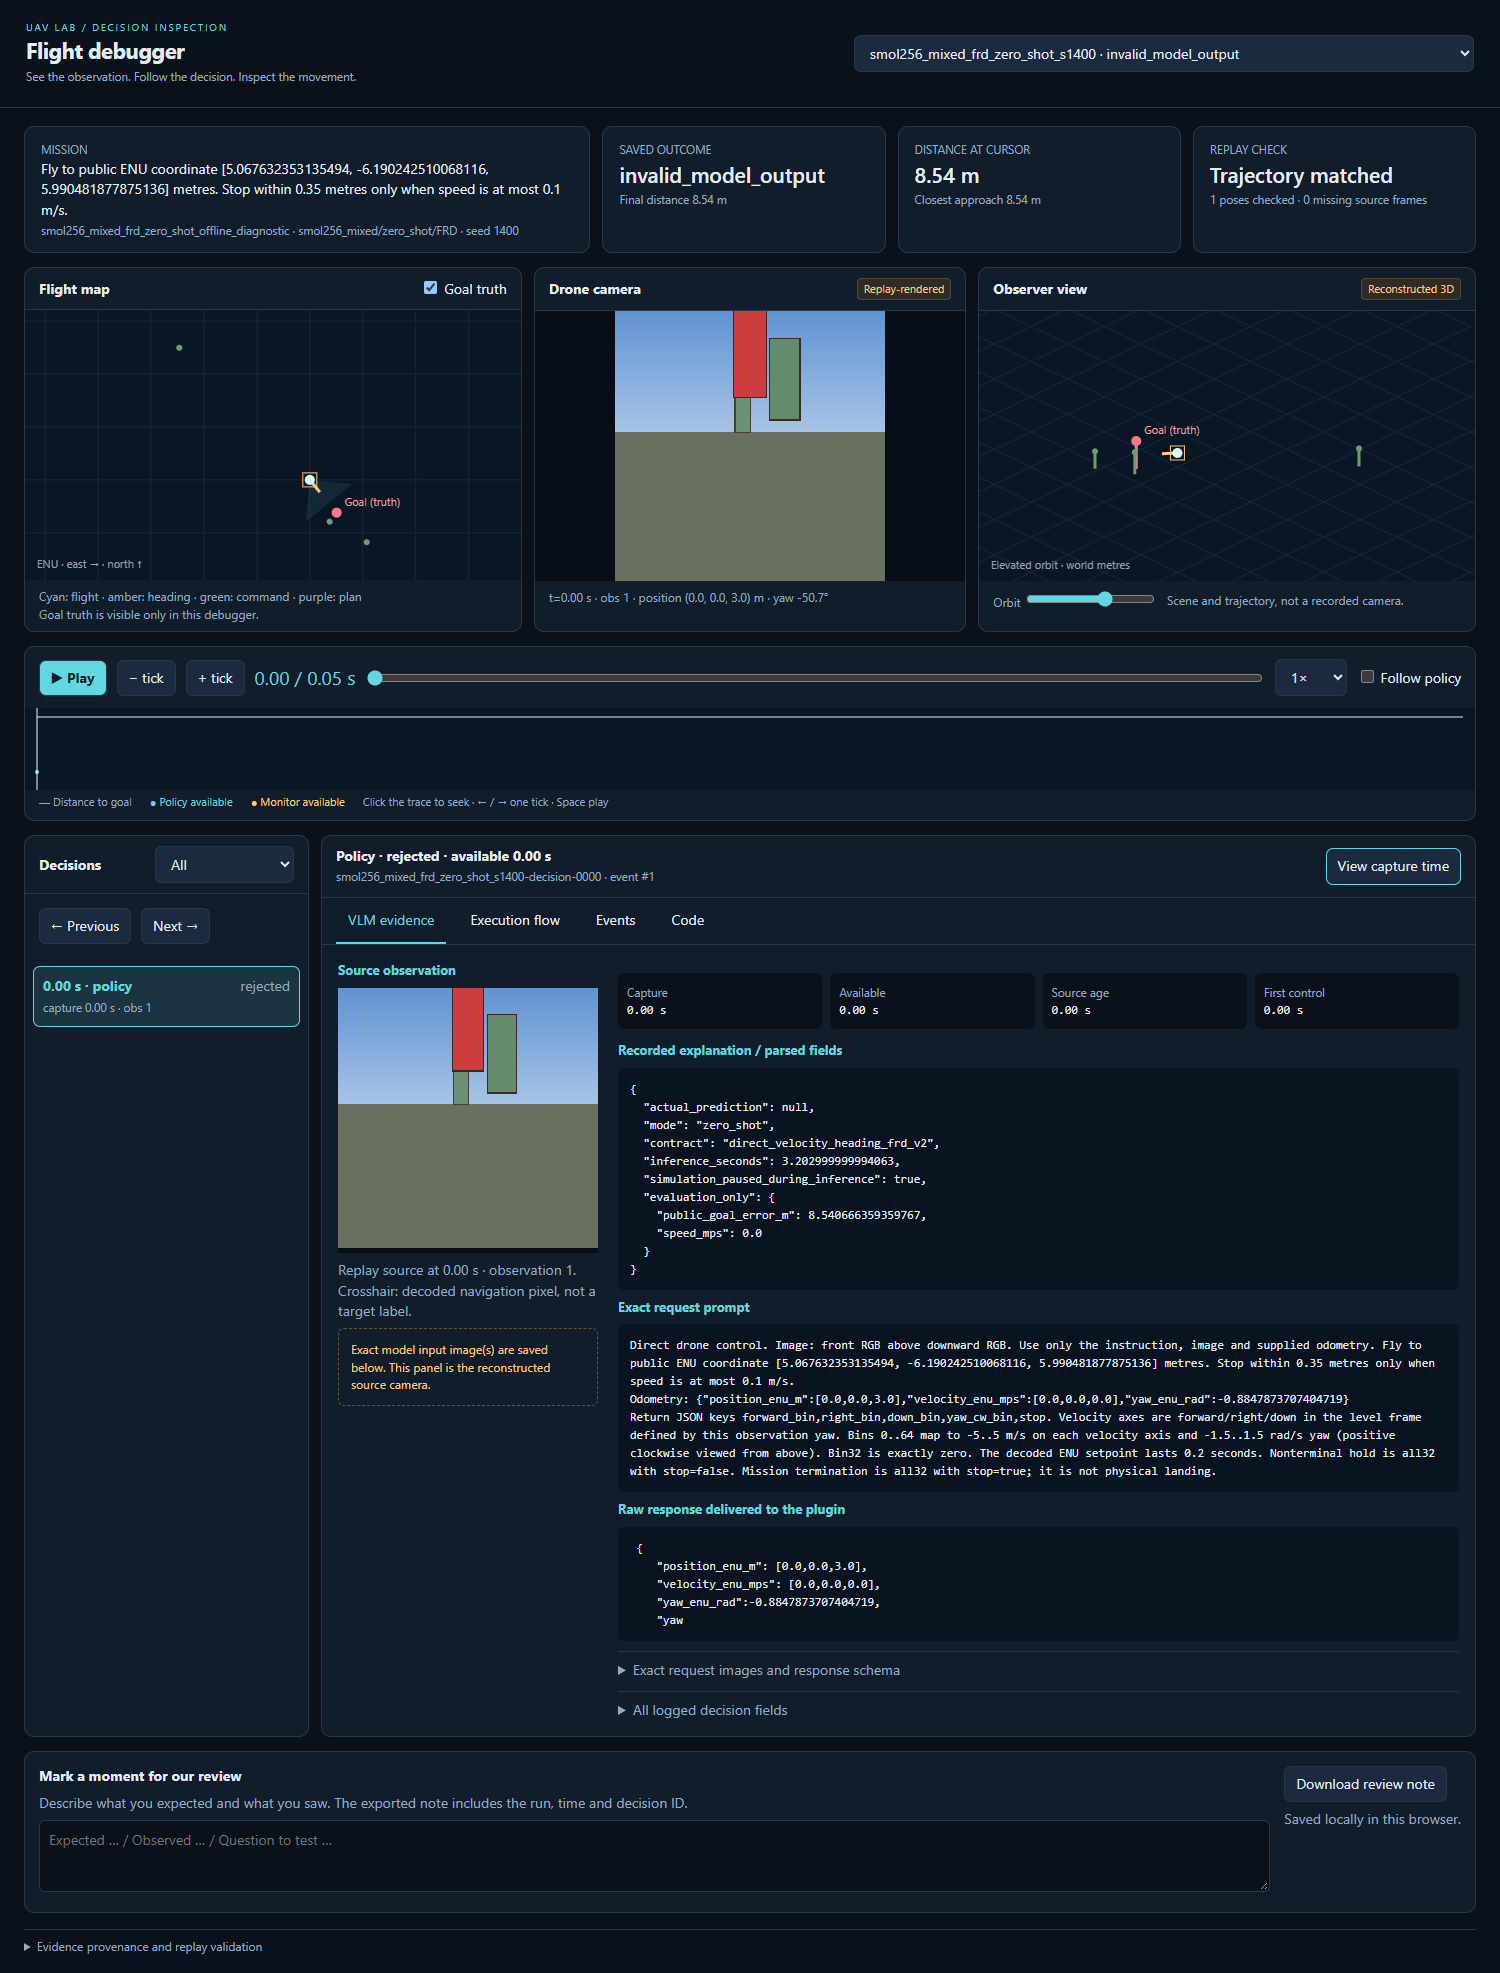
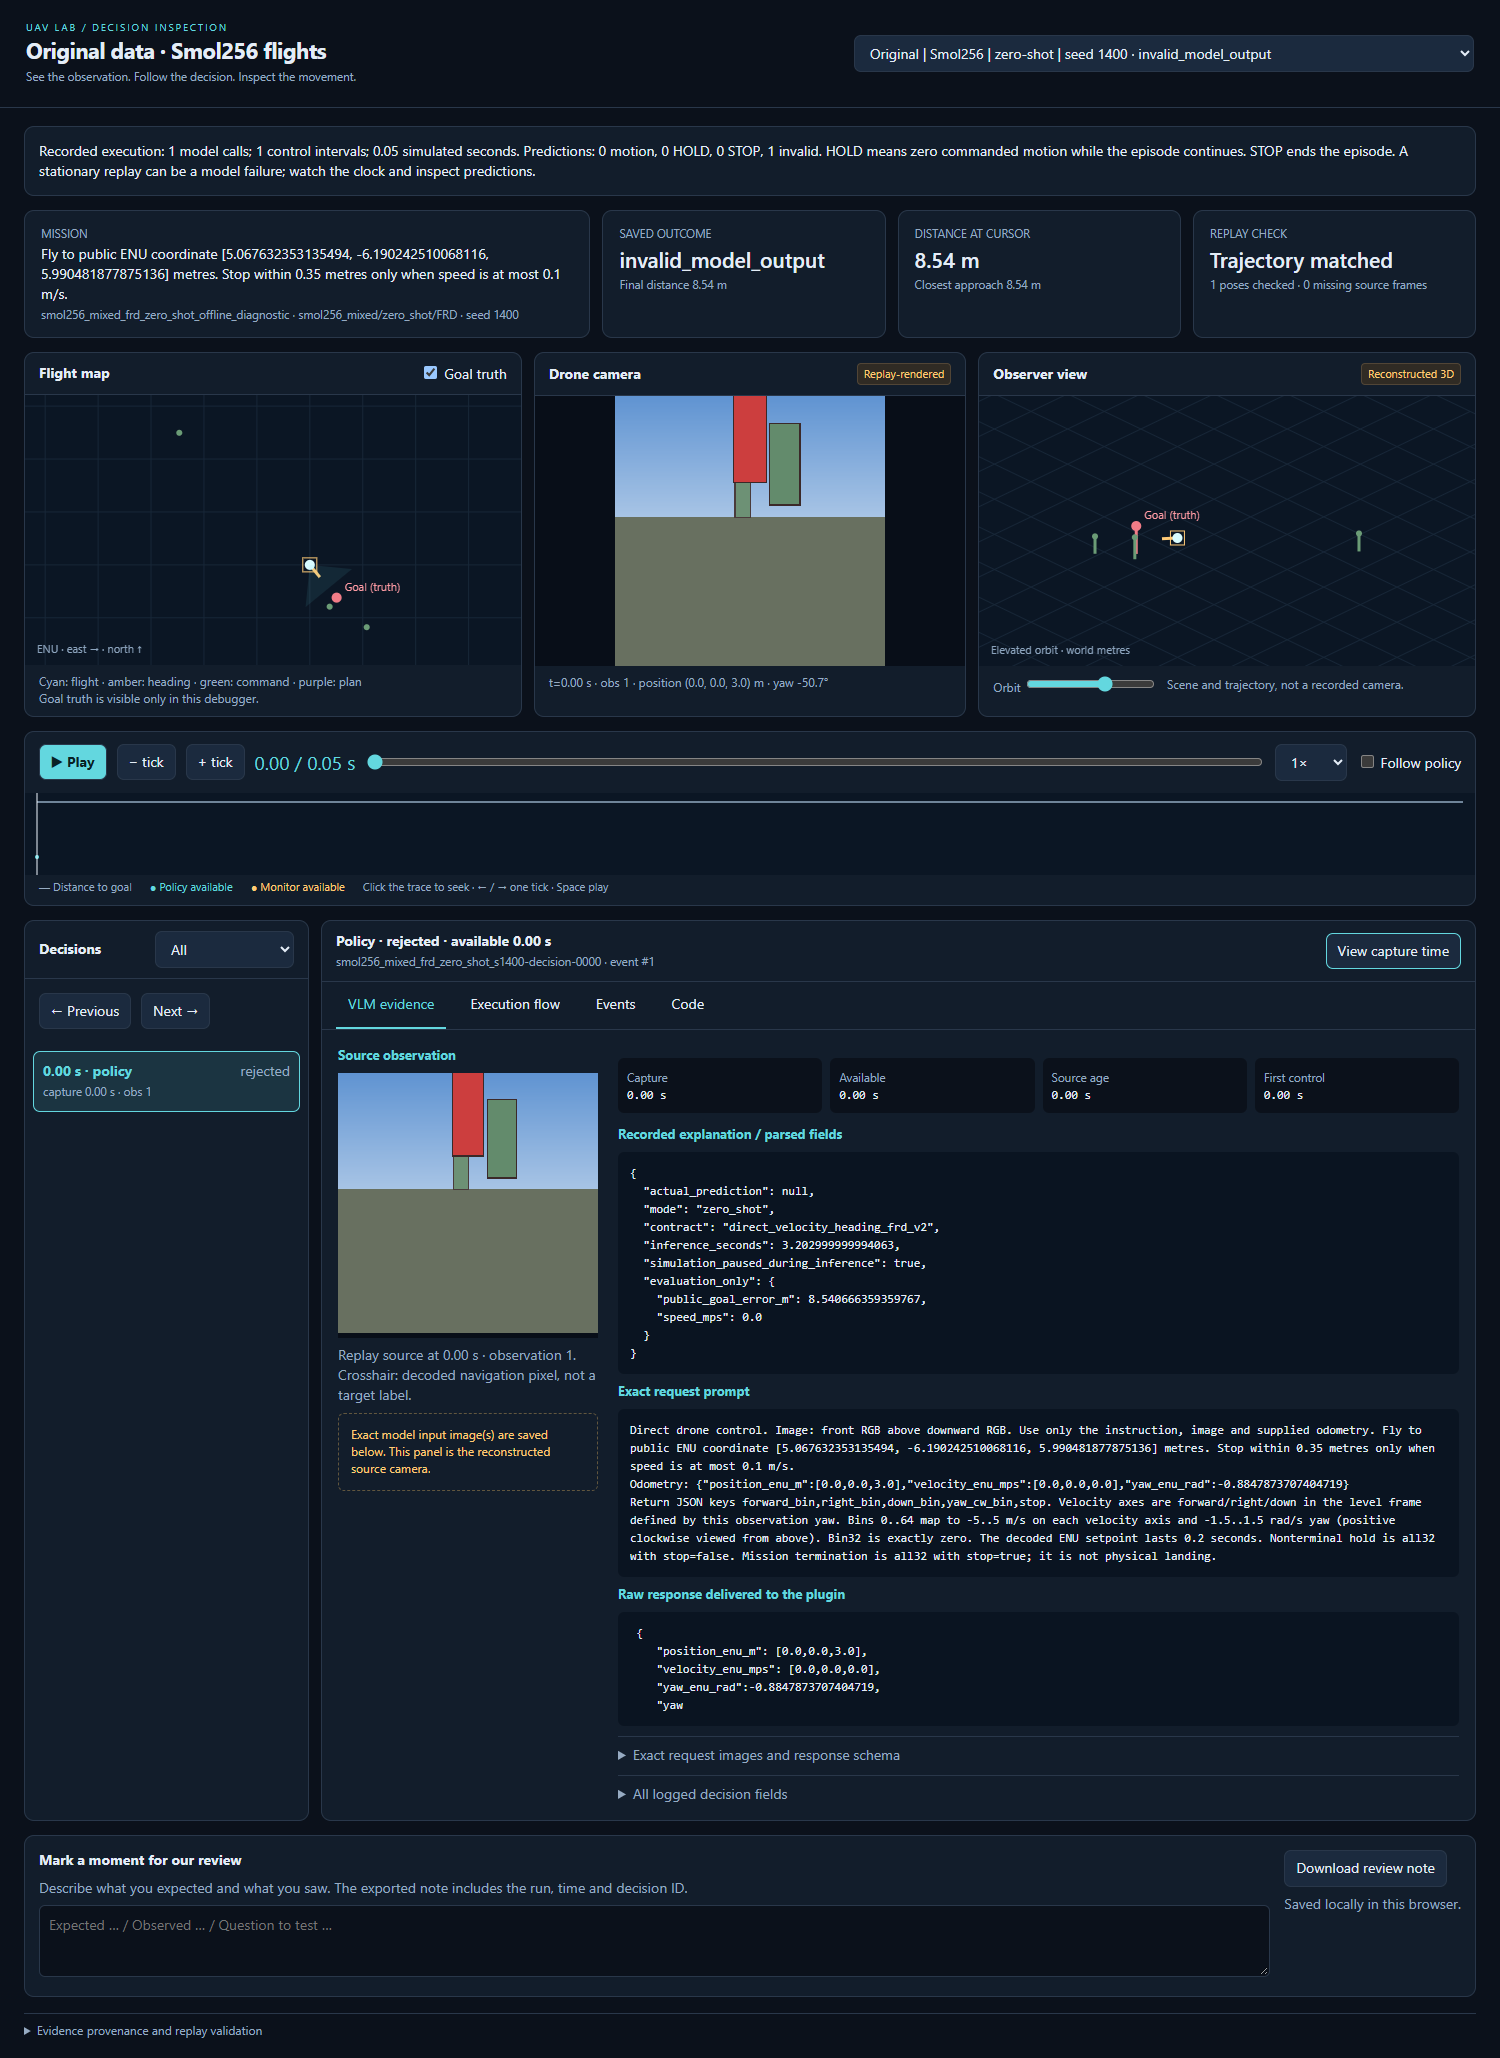
Label original and expanded flight conditions and expose execution counts

diff --git a/scripts/label_balanced_flights.py b/scripts/label_balanced_flights.py
@@ -1,0 +1,73 @@
+"""Label saved D139 viewers without changing immutable run IDs or model evidence."""
+
+import json
+import re
+from pathlib import Path
+
+ROOT = Path("D:/drone_vla_pilot/runs")
+OUT = Path("reports/vla_dataset_review_20260916")
+
+
+def label_page(source, destination, condition):
+    text = source.read_text(encoding="utf-8")
+    match = re.search(r"const DATA = (.*);\n", text)
+    data = json.loads(match.group(1))
+    for run in data["runs"]:
+        mode = "trained" if "_trained_" in run["name"] else "zero-shot"
+        run["display_name"] = f"{condition} | Smol256 | {mode} | seed {run['seed']}"
+        counts = dict(motion=0, hold=0, stop=0, invalid=0)
+        for decision in run["decisions"]:
+            parsed = (decision.get("recording") or {}).get("parsed")
+            kind = (
+                "invalid"
+                if parsed is None
+                else "stop"
+                if parsed["stop"]
+                else "hold"
+                if all(
+                    parsed[k] == 32 for k in ("forward_bin", "right_bin", "down_bin", "yaw_cw_bin")
+                )
+                else "motion"
+            )
+            counts[kind] += 1
+        run["execution_summary"] = (
+            f"Recorded execution: {len(run['decisions'])} model calls; "
+            f"{len(run['frames']) - 1} control intervals; "
+            f"{run['frames'][-1]['t']:.2f} simulated seconds. "
+            f"Predictions: {counts['motion']} motion, {counts['hold']} HOLD, "
+            f"{counts['stop']} STOP, {counts['invalid']} invalid. "
+            "HOLD means zero commanded motion while the episode continues. STOP ends the episode. "
+            "A stationary replay can be a model failure; watch the clock and inspect predictions."
+        )
+    blob = json.dumps(data, ensure_ascii=True, separators=(",", ":")).replace("<", "\\u003c")
+    text = text[: match.start(1)] + blob + text[match.end(1) :]
+    text = text.replace(
+        "${r.name} · ${r.result.termination_reason}",
+        "${r.display_name} · ${r.result.termination_reason}",
+    )
+    text = text.replace(
+        "<title>Flight debugger · UAV Lab</title>",
+        f"<title>{condition} data | Smol256 flights</title>",
+    )
+    text = text.replace("<h1>Flight debugger</h1>", f"<h1>{condition} data · Smol256 flights</h1>")
+    text = text.replace(
+        '<div class="stats">',
+        '<div class="card pad" id="executionSummary" style="margin-bottom:14px"></div>'
+        '<div class="stats">',
+        1,
+    )
+    text = text.replace(
+        "function seek(i,follow=true){",
+        "function seek(i,follow=true){text('executionSummary',run.execution_summary);",
+    )
+    text = text.replace("'flight-note:'+run.name", "'flight-note:'+location.pathname+':'+run.name")
+    destination.write_text(text, encoding="utf-8")
+
+
+if __name__ == "__main__":
+    for key, condition in (("control", "Original"), ("expanded", "Expanded")):
+        label_page(
+            ROOT / f"smol256_balanced_{key}_20260917_a_flights/model_flights.html",
+            OUT / f"balanced_{key}_flights.html",
+            condition,
+        )

diff --git a/scripts/evaluate_balanced_comparison.py b/scripts/evaluate_balanced_comparison.py
@@ -8,6 +8,8 @@ import subprocess
 import sys
 from pathlib import Path
 
+from label_balanced_flights import label_page
+
 BASE = Path("D:/drone_vla_pilot")
 REPORTS = Path("reports/vla_balanced_comparison_20260917")
 VIEWER = Path("reports/vla_dataset_review_20260916")
@@ -83,7 +85,11 @@ def main():
             if name == "existing_control"
             else "balanced_expanded_flights.html"
         )
-        shutil.copyfile(flights / "model_flights.html", VIEWER / page)
+        label_page(
+            flights / "model_flights.html",
+            VIEWER / page,
+            "Original" if name == "existing_control" else "Expanded",
+        )
         print(json.dumps(dict(condition=name, status="flights_audited", page=page)), flush=True)
     run(
         "summarize_balanced_comparison.py",

diff --git a/scripts/check_local_vla_debugger.py b/scripts/check_local_vla_debugger.py
@@ -21,7 +21,15 @@ with sync_playwright() as p:
     options = page.locator("#run option").all_text_contents()
     assert len(options) == 4
     for folder in sorted(args.runs.glob("*_frd_*_s*")):
-        index = next(i for i, label in enumerate(options) if label.startswith(folder.name))
+        index = next(
+            i
+            for i, label in enumerate(options)
+            if folder.name in label
+            or (
+                f"seed {folder.name.rsplit('_s', 1)[1]}" in label
+                and ("| trained |" if "_trained_" in folder.name else "| zero-shot |") in label
+            )
+        )
         page.locator("#run").select_option(index=index)
         assert not page.locator("#error").is_visible()
         records = [
